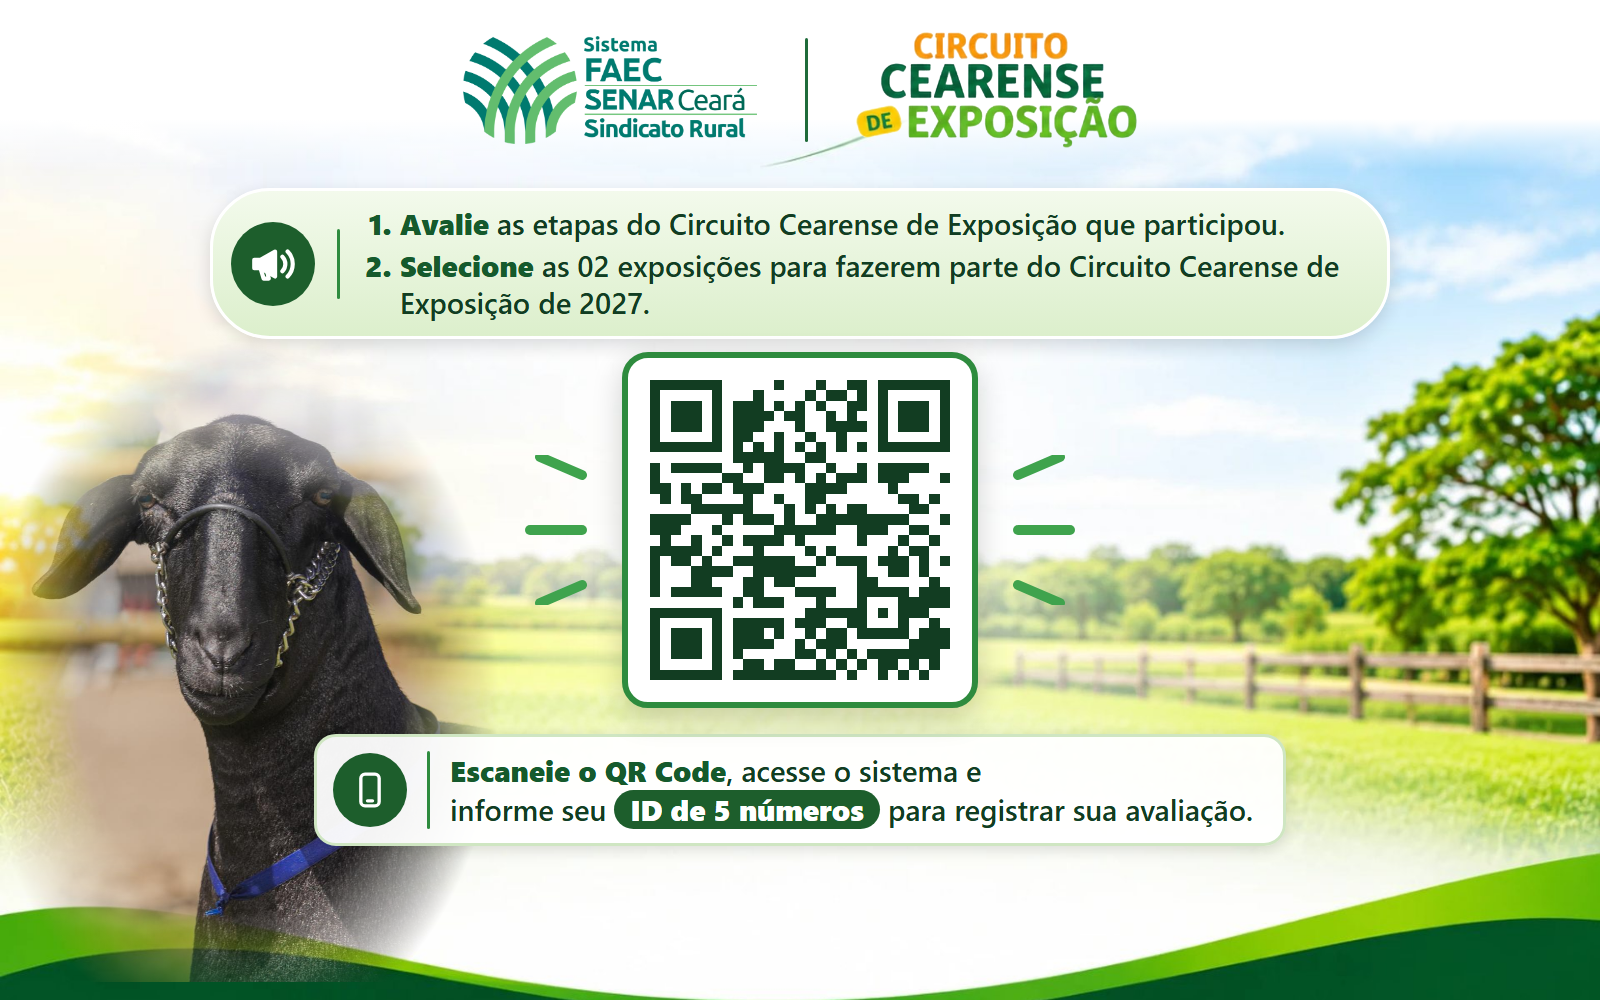
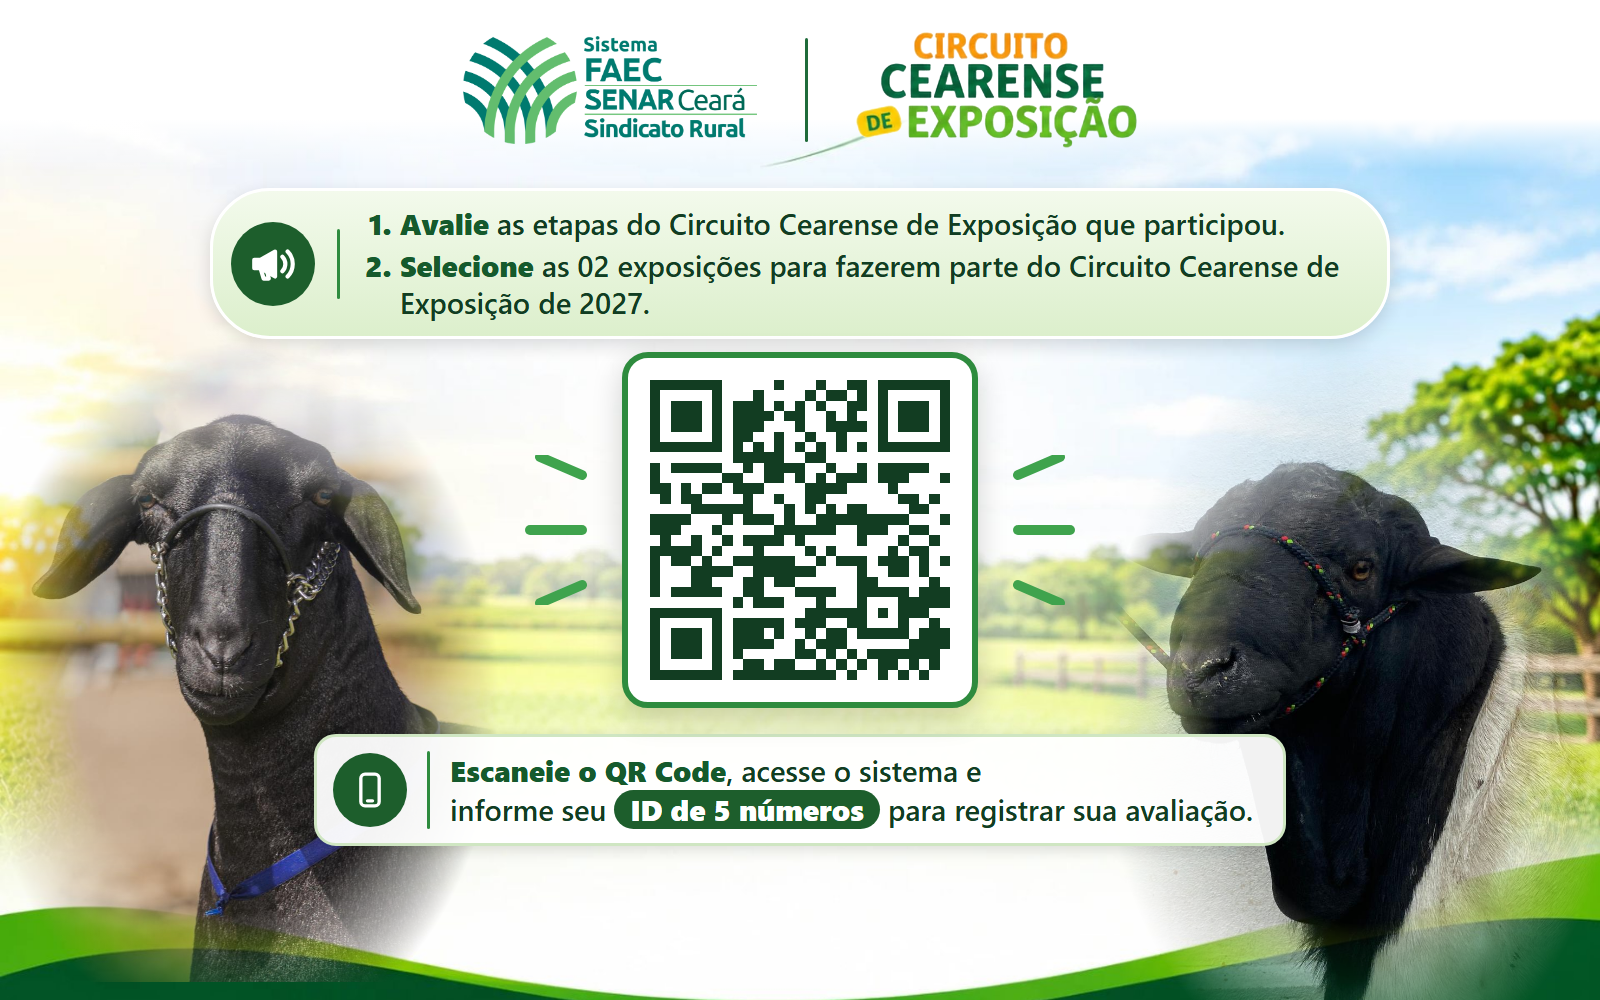
Cartaz e telao: segunda ovelha na ponta direita (uma em cada lado)

Changed region(s): [[0.6875, 0.372, 1.0, 1.0]]

diff --git a/app/globals.css b/app/globals.css
@@ -2412,3 +2412,13 @@ button.filtro { font: inherit; font-weight: 700; font-size: 0.95rem; cursor: poi
 .telao-itens li::marker { color: #155a2c; font-weight: 900; }
 .telao-anuncio { border-radius: 40px; font-size: clamp(1.2rem, 3vh, 2rem); }
 .telao .qr svg { width: min(35vh, 440px); }
+/* telão: segunda ovelha na ponta direita, espelhada (como no cartaz) */
+@media (min-width: 900px) {
+  .pagina:has(.telao .qr)::before {
+    content: ""; position: absolute; right: 0; bottom: 0; z-index: 0; pointer-events: none;
+    width: min(26vw, 480px); aspect-ratio: 1021 / 1280; transform: scaleX(-1);
+    background: url("/marcas/ovelha-2.jpg") 70% 30% / cover no-repeat;
+    -webkit-mask-image: radial-gradient(ellipse 50% 54% at 46% 56%, #000 55%, transparent 100%);
+    mask-image: radial-gradient(ellipse 50% 54% at 46% 56%, #000 55%, transparent 100%);
+  }
+}
